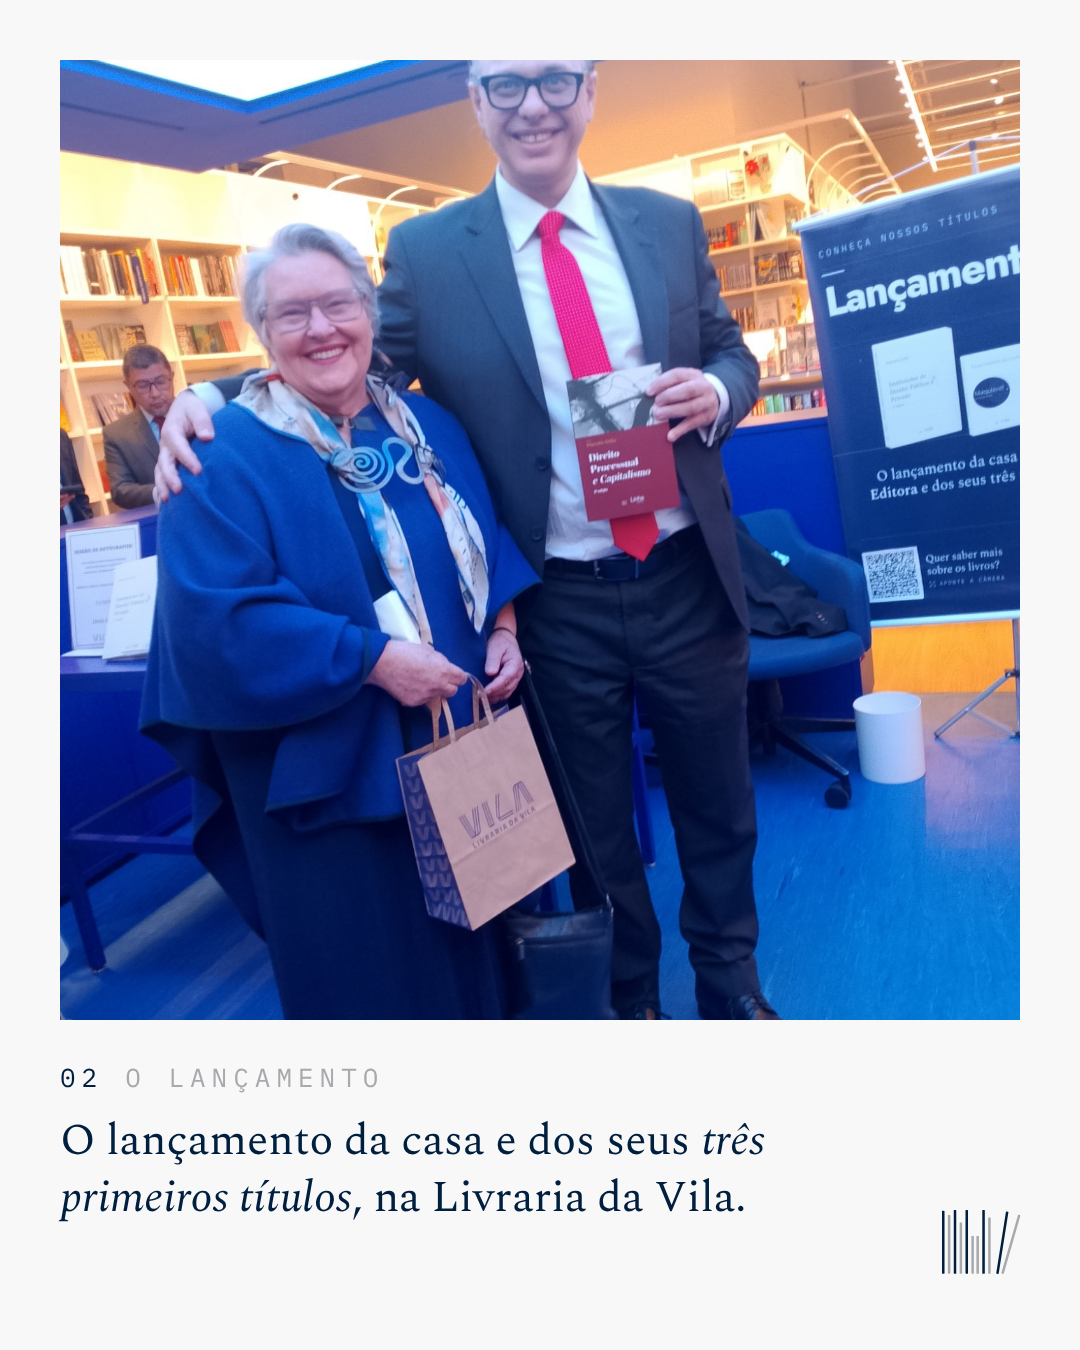
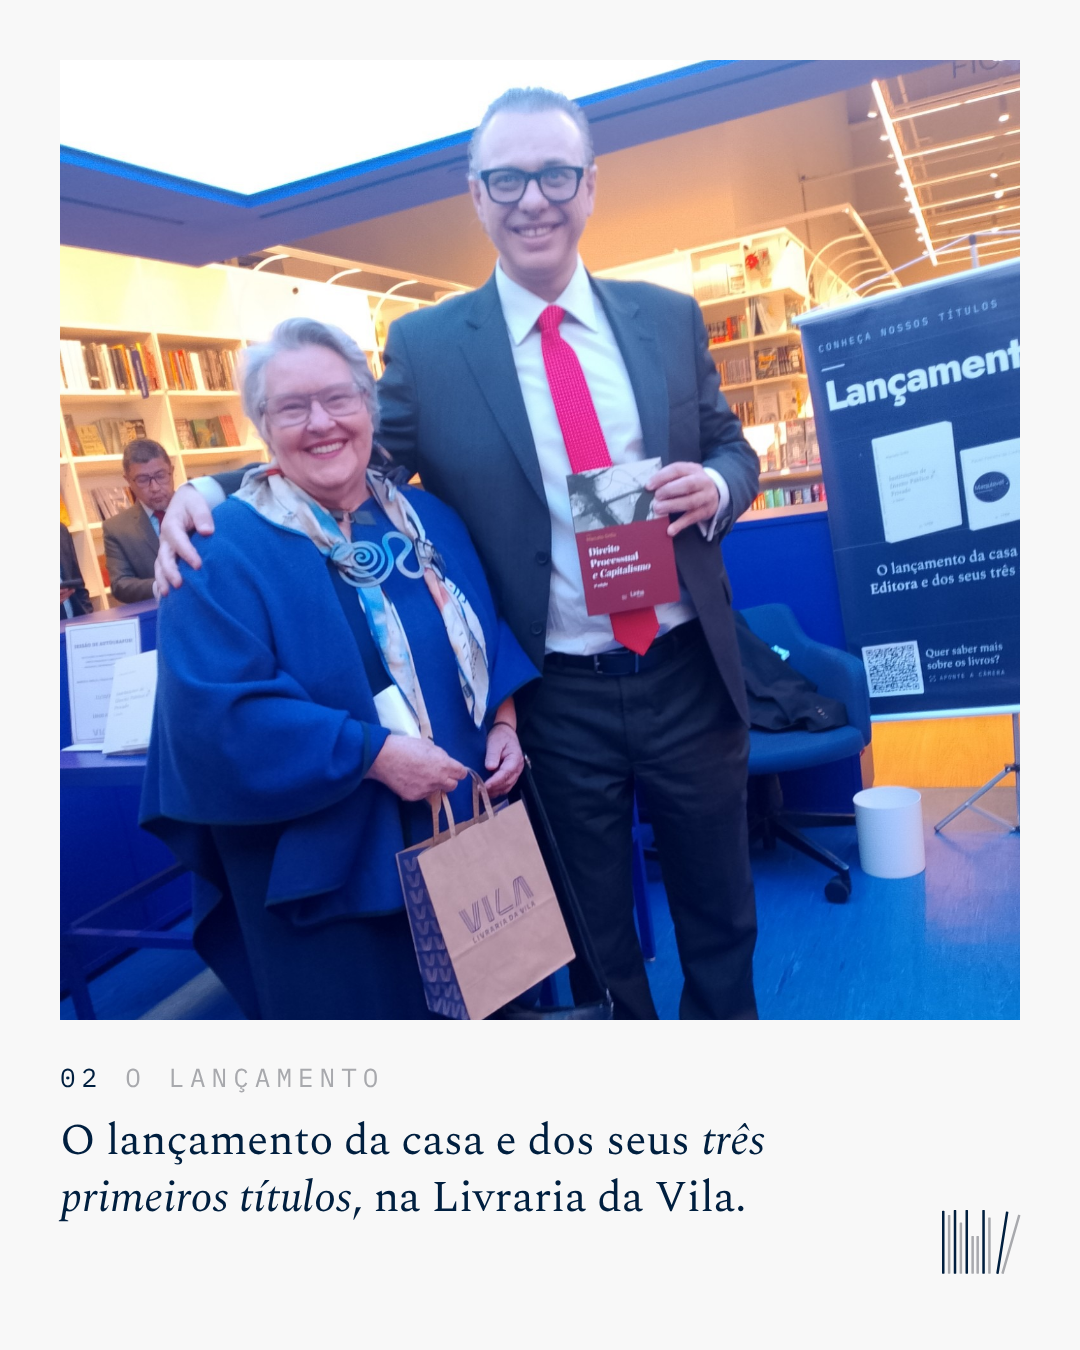
Carrossel: enquadrar fotos pelo topo para não cortar a cabeça
Claude-Session: https://claude.ai/code/session_01JNfkS7whksed1X43ayTnFR

diff --git a/linha-editora/motion-lancamento/src/carrossel/Slides.tsx b/linha-editora/motion-lancamento/src/carrossel/Slides.tsx
@@ -15,7 +15,7 @@ export const Capa: React.FC = () => (
       A primeira linha da nossa história.
     </div>
     <div style={{ position: "absolute", left: 80, right: 80, top: 450, height: 780, overflow: "hidden" }}>
-      <Img src={staticFile("fotos/foto10.jpg")} style={{ width: "100%", height: "100%", objectFit: "cover", objectPosition: "50% 22%" }} />
+      <Img src={staticFile("fotos/foto10.jpg")} style={{ width: "100%", height: "100%", objectFit: "cover", objectPosition: "50% 0%" }} />
     </div>
     <div style={{ position: "absolute", left: 80, bottom: 60 }}>
       <Linhas n={24} altura={42} cor="#A8A9AD" espaco={14} />
@@ -28,19 +28,19 @@ export const Capa: React.FC = () => (
 
 // 02 a 05 · Fotos do lançamento
 export const Foto1: React.FC = () => (
-  <SlideFoto foto="fotos/foto11.jpg" posicao="50% 30%" numero="02" rotulo="O LANÇAMENTO"
+  <SlideFoto foto="fotos/foto11.jpg" posicao="50% 0%" numero="02" rotulo="O LANÇAMENTO"
     legenda={<>O lançamento da casa e dos seus <i>três primeiros títulos</i>, na Livraria da Vila.</>} />
 );
 export const Foto2: React.FC = () => (
-  <SlideFoto foto="fotos/foto9.jpg" posicao="50% 25%" numero="03" rotulo="ENCONTROS"
+  <SlideFoto foto="fotos/foto9.jpg" posicao="50% 0%" numero="03" rotulo="ENCONTROS"
     legenda={<>Toda história começa por uma linha, e por quem está ao lado.</>} />
 );
 export const Foto3: React.FC = () => (
-  <SlideFoto foto="fotos/foto12.jpg" posicao="50% 30%" numero="04" rotulo="LEITORES"
+  <SlideFoto foto="fotos/foto12.jpg" posicao="50% 0%" numero="04" rotulo="LEITORES"
     legenda={<>Leitores, colegas e amigos que vieram celebrar com a gente.</>} />
 );
 export const Foto4: React.FC = () => (
-  <SlideFoto foto="fotos/foto13.jpg" posicao="50% 28%" numero="05" rotulo="NOVOS TÍTULOS"
+  <SlideFoto foto="fotos/foto13.jpg" posicao="50% 0%" numero="05" rotulo="NOVOS TÍTULOS"
     legenda={<><i>Direito Processual e Capitalismo</i>, 2ª edição, nas mãos de quem lê.</>} />
 );
 
